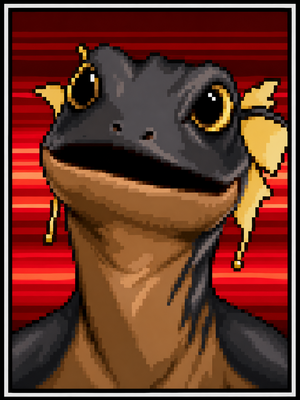
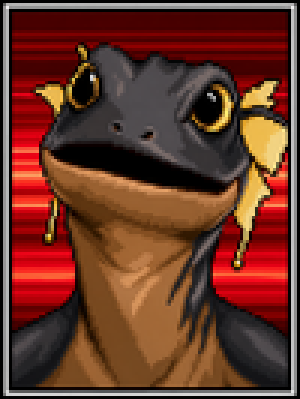
feat(tavern): tighten composition — side-by-side portrait, pixelated art, denser layout
Four composition improvements to the tavern panel:

1. Portrait left + dialogue right in a flex row, replacing the stacked
   vertical layout. Removes ~150px of dead blue space while keeping the
   FF6 menu feel. Portrait is 140px wide with a "Hot Boi" gold label
   beneath it.

2. Dialogue font reduced from 30px to 26px (~13%) so the quote no longer
   dominates the portrait — tavern dialogue, not a splash quote.

3. Ambient/descriptive text brightened from --text-dim (#a09080) to warm
   parchment gray (#c8b896) via a tavern-specific .tavern-ambient class,
   so it doesn't get overridden by the standalone-window dim color.

4. Portrait pixelated: nearest-neighbor downscale to 100x133 then upscale
   to 300x400, plus image-rendering: pixelated in CSS. File dropped from
   122KB to 30KB. Snaps the art into the same visual universe as the
   tilesets and sprites.

Also added a subtitle "Tavern & Adventurers' Hall" in amber italic below
the window title on the root screen, establishing the hierarchy:
location name → character → dialogue → environmental narration.

npm run check: 2074 tests, build/floor-validate/export-check clean.

Generated with [Devin](https://devin.ai)

diff --git a/src/styles.css b/src/styles.css
@@ -783,28 +783,68 @@ canvas#map-canvas {
 
 /* --- Dungeon NPC panel --------------------------------------------------- */
 
+.tavern-header {
+  display: flex;
+  flex-direction: row;
+  align-items: flex-start;
+  gap: 16px;
+  margin: 0 auto 10px;
+  max-width: 700px;
+}
+
 .tavern-portrait {
-  margin: 0 auto 12px;
-  max-width: 180px;
-  text-align: center;
+  flex: 0 0 140px;
+  width: 140px;
 }
 
 .tavern-portrait img {
   width: 100%;
   height: auto;
-  border: 2px solid var(--amber, #ffd769);
+  border: 2px solid var(--amber);
   border-radius: 4px;
-  image-rendering: auto;
+  image-rendering: pixelated;
+}
+
+.tavern-portrait-label {
+  text-align: center;
+  font-size: var(--fs-small);
+  color: var(--amber);
+  margin-top: 4px;
+}
+
+.tavern-dialogue-block {
+  flex: 1 1 auto;
+  display: flex;
+  flex-direction: column;
+  justify-content: center;
+  min-height: 140px;
+}
+
+.tavern-subtitle {
+  font-size: var(--fs-small);
+  color: var(--amber);
+  font-style: italic;
+  margin-bottom: 6px;
 }
 
 .npc-dialogue {
-  margin: 0 auto 16px;
-  max-width: 700px;
-  text-align: center;
-  font-size: var(--fs-body);
+  margin: 0 0 6px;
+  font-size: var(--fs-small);
   color: var(--warm-white);
   font-style: italic;
-  line-height: 1.5;
+  line-height: 1.4;
+}
+
+.npc-empty-line {
+  font-size: var(--fs-small);
+  color: #c8b896;
+  line-height: 1.4;
+}
+
+.tavern-ambient {
+  font-size: var(--fs-small);
+  color: #c8b896;
+  line-height: 1.4;
 }
 
 .npc-caret {

diff --git a/src/engine/tavern-ui.ts b/src/engine/tavern-ui.ts
@@ -454,18 +454,22 @@ export class TavernController {
         break;
     }
 
-    const portraitHtml = `<div class="tavern-portrait"><img src="${HOT_BOI_PORTRAIT_URL}" alt="Hot Boi" /></div>`;
+    const isRoot = this.phase === "root";
+    const subtitle = isRoot ? `<div class="tavern-subtitle">Tavern &amp; Adventurers' Hall</div>` : "";
+    const portraitHtml = `<div class="tavern-portrait"><img src="${HOT_BOI_PORTRAIT_URL}" alt="Hot Boi" /><div class="tavern-portrait-label">Hot Boi</div></div>`;
     const dialogueHtml = `<div class="npc-dialogue">${this.dialogue}</div>`;
     const ambientHtml =
-      this.phase === "root" ? `<div class="npc-empty-line">${this.ambient}</div>` : "";
+      isRoot ? `<div class="tavern-ambient">${this.ambient}</div>` : "";
     const emptyBoardHtml =
       this.phase === "scorchboard" && items.length === 0
         ? `<div class="npc-empty-line">Nothing posted right now.</div>`
         : "";
 
+    const headerHtml = `<div class="tavern-header">${portraitHtml}<div class="tavern-dialogue-block">${subtitle}${dialogueHtml}${ambientHtml}</div></div>`;
+
     const win = new FF6Window({
       title,
-      contentHtml: portraitHtml + dialogueHtml + ambientHtml + emptyBoardHtml,
+      contentHtml: headerHtml + emptyBoardHtml,
       items,
       selectedIndex: this.index,
       mode: "menu",
